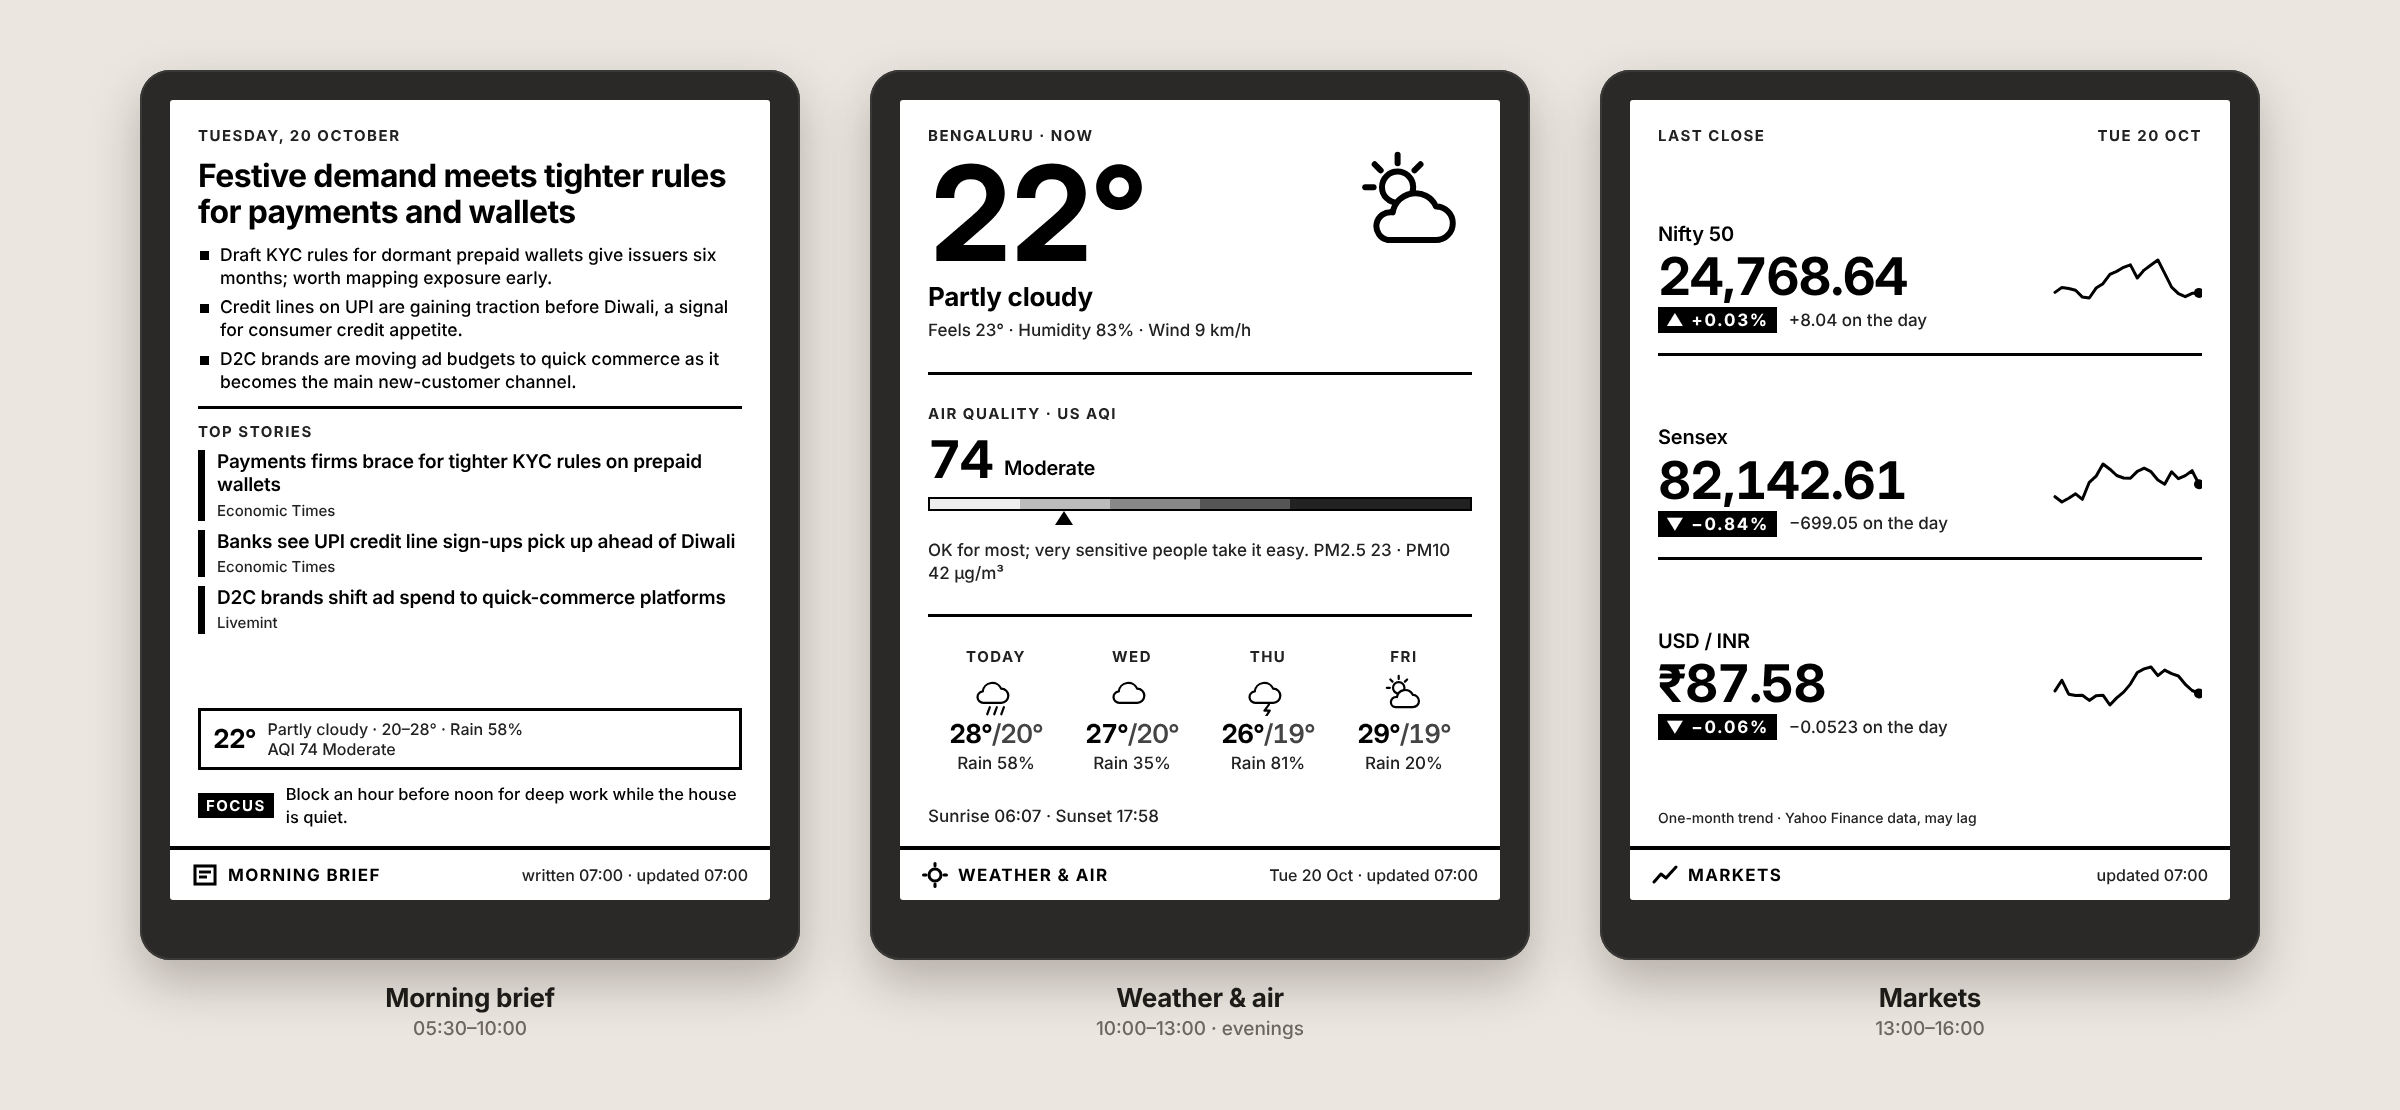
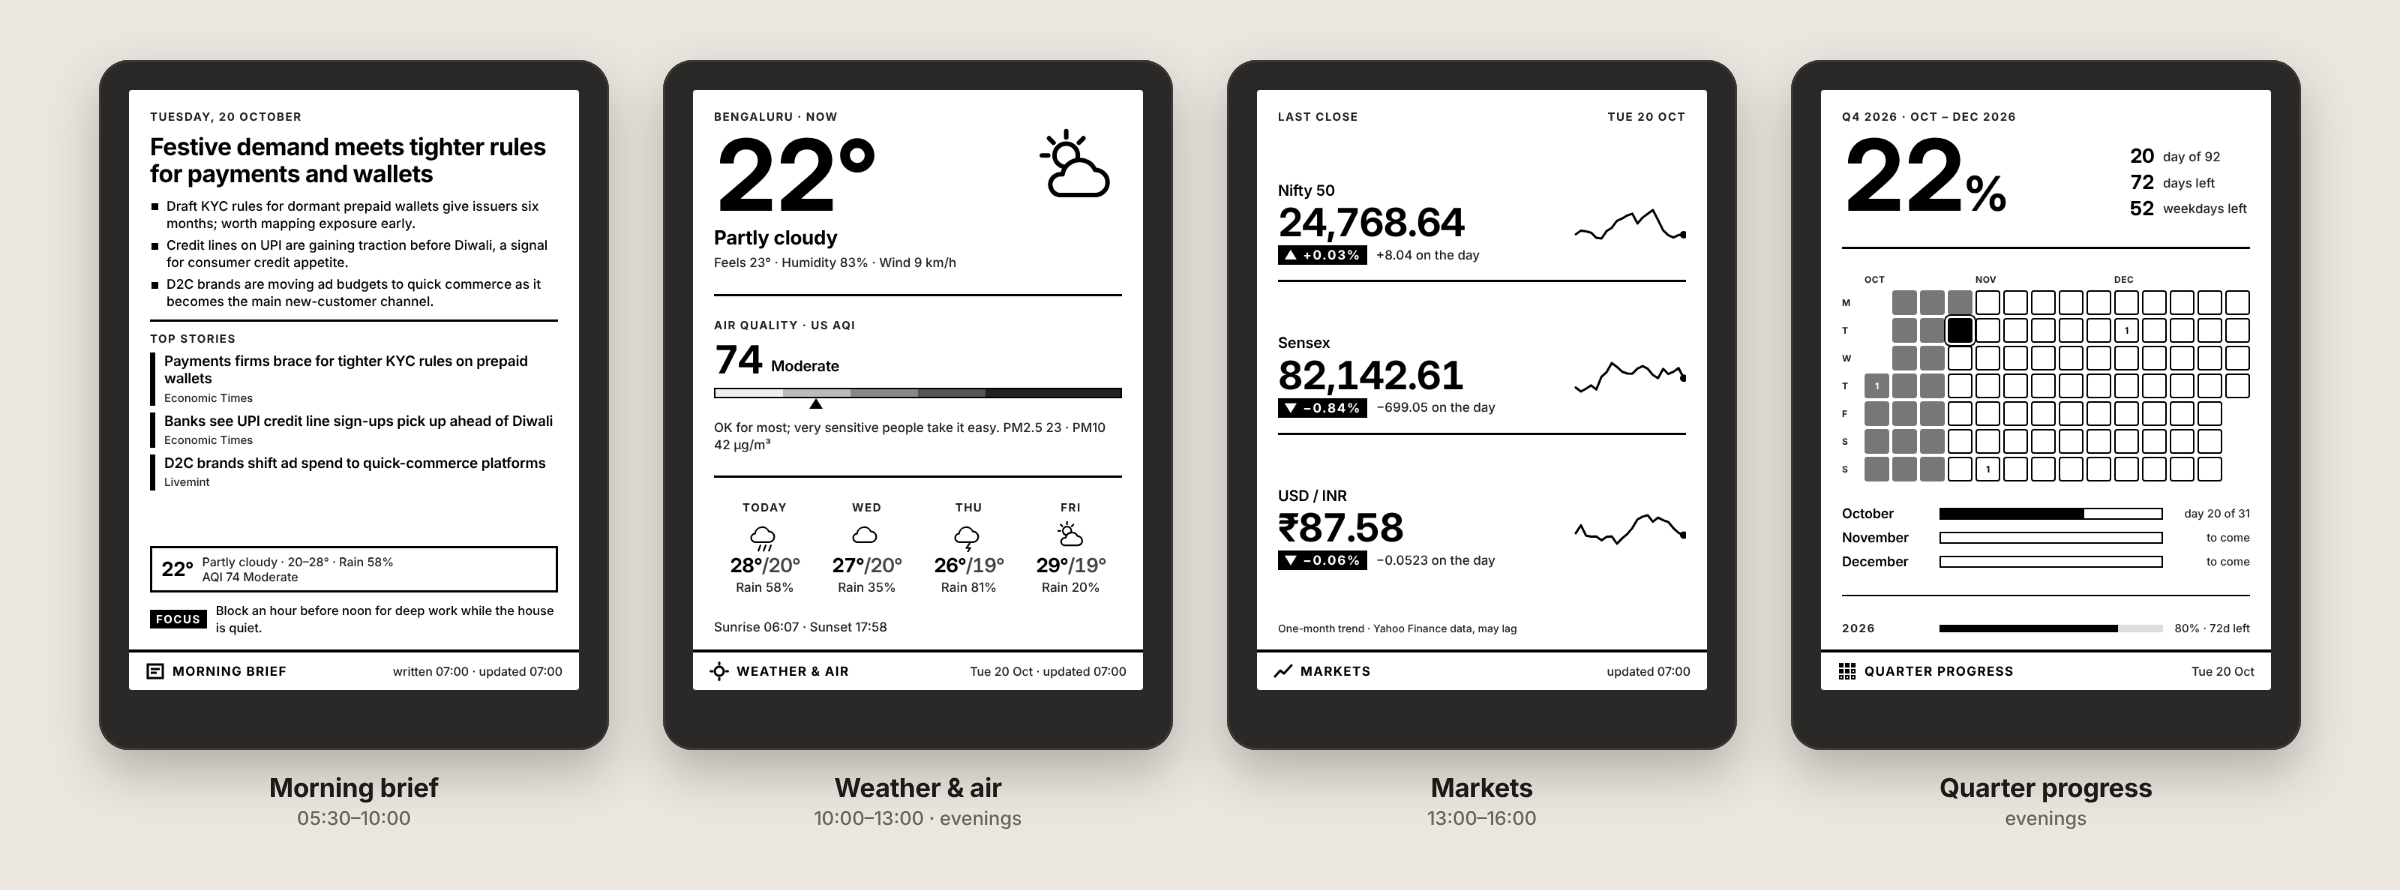
Add Quarter Progress screen (TRMNL recipe equivalent)
One square per day of the quarter, % done, days and weekdays left, month and
year bars. Optional April-March financial-year quarters via plugin settings.
Plugins can now read a settings: block from their plugin.yaml (ctx.settings).

Claude-Session: https://claude.ai/code/session_01GcKyYFsaBsPuGYxqe3XuTx

diff --git a/plugins/quarter_progress/fetch.py b/plugins/quarter_progress/fetch.py
@@ -1,0 +1,107 @@
+"""Quarter progress: one square per day of the current quarter, plus month and year progress.
+
+Equivalent of TRMNL's "Quarter Progress" recipe, laid out for a portrait Kindle. No network needed.
+Set `fiscal_year_start: 4` in plugin.yaml for Indian financial-year quarters (Q1 = Apr–Jun).
+"""
+from calendar import monthrange
+from datetime import date, timedelta
+
+LABEL_W, GAP = 26, 4  # weekday-label column width and grid gap, px
+
+
+def _add_months(year: int, month: int, n: int) -> tuple[int, int]:
+    m = month - 1 + n
+    return year + m // 12, m % 12 + 1
+
+
+def _quarter(today: date, fy_start: int):
+    offset = (today.month - fy_start) % 12          # months since the (fiscal) year began
+    q = offset // 3 + 1
+    y0, m0 = _add_months(today.year, today.month, -(offset % 3))
+    start = date(y0, m0, 1)
+    y1, m1 = _add_months(y0, m0, 2)
+    end = date(y1, m1, monthrange(y1, m1)[1])
+    return q, start, end
+
+
+def _year(today: date, fy_start: int):
+    y = today.year if today.month >= fy_start else today.year - 1
+    start = date(y, fy_start, 1)
+    ny, nm = _add_months(y, fy_start, 12)
+    end = date(ny, nm, 1) - timedelta(days=1)
+    label = str(y) if fy_start == 1 else f"FY{str(end.year)[-2:]}"
+    return label, start, end
+
+
+def _weekdays_between(a: date, b: date) -> int:
+    """Mon–Fri days from a to b inclusive."""
+    if b < a:
+        return 0
+    days = (b - a).days + 1
+    full, rest = divmod(days, 7)
+    count = full * 5
+    for i in range(rest):
+        if (a + timedelta(days=full * 7 + i)).weekday() < 5:
+            count += 1
+    return count
+
+
+def fetch(ctx):
+    fy_start = int(ctx.settings.get("fiscal_year_start", 1))
+    today = ctx.now.date()
+    q, q_start, q_end = _quarter(today, fy_start)
+    total = (q_end - q_start).days + 1
+    day = (today - q_start).days + 1
+    year_label, y_start, y_end = _year(today, fy_start)
+
+    # Week columns, Monday first (like a calendar turned on its side).
+    first_monday = q_start - timedelta(days=q_start.weekday())
+    weeks, d = [], first_monday
+    while d <= q_end:
+        cells, label = [], ""
+        for i in range(7):
+            cur = d + timedelta(days=i)
+            if cur < q_start or cur > q_end:
+                state = "out"
+            elif cur < today:
+                state = "past"
+            elif cur == today:
+                state = "today"
+            else:
+                state = "future"
+            cells.append({"state": state, "first": state != "out" and cur.day == 1})
+            if q_start <= cur <= q_end and (cur.day == 1 or not weeks and not label):
+                label = cur.strftime("%b")
+        weeks.append({"label": label, "cells": cells})
+        d += timedelta(days=7)
+
+    usable = ctx.cfg["screen"]["width"] - 2 * 28 - LABEL_W
+    cell = min(40, (usable - GAP * len(weeks)) // len(weeks))
+
+    months = []
+    for i in range(3):
+        y, m = _add_months(q_start.year, q_start.month, i)
+        m_start, m_days = date(y, m, 1), monthrange(y, m)[1]
+        done = 0 if today < m_start else min(m_days, (today - m_start).days + 1)
+        months.append({"name": m_start.strftime("%B"), "pct": round(done / m_days * 100),
+                       "note": "done" if done == m_days else ("to come" if done == 0 else f"day {done} of {m_days}")})
+
+    q_name = f"Q{q} {q_start.year}" if fy_start == 1 else f"Q{q} {year_label}"
+    same_year = q_start.year == q_end.year
+    y_total, y_day = (y_end - y_start).days + 1, (today - y_start).days + 1
+    return {
+        "available": True,
+        "quarter": q_name,
+        "range": f"{q_start:%b} – {q_end:%b %Y}" if same_year else f"{q_start:%b %Y} – {q_end:%b %Y}",
+        "pct": round(day / total * 100),
+        "day": day,
+        "total": total,
+        "days_left": total - day,
+        "weekdays_left": _weekdays_between(today + timedelta(days=1), q_end),
+        "weeks": weeks,
+        "cell": cell,
+        "label_w": LABEL_W,
+        "gap": GAP,
+        "months": months,
+        "year": {"label": year_label, "pct": round(y_day / y_total * 100), "days_left": y_total - y_day},
+    }

diff --git a/core/render.py b/core/render.py
@@ -19,6 +19,7 @@ FONTS = [  # family, file, weight
 GLYPHS = {  # small title-bar icons
     "morning_brief": '<svg class="glyph" viewBox="0 0 26 26"><rect x="3" y="4" width="20" height="18" fill="none" stroke="#000" stroke-width="3"/><line x1="7" y1="10" x2="19" y2="10" stroke="#000" stroke-width="3"/><line x1="7" y1="15" x2="15" y2="15" stroke="#000" stroke-width="3"/></svg>',
     "weather_aqi": '<svg class="glyph" viewBox="0 0 26 26"><circle cx="13" cy="13" r="6" fill="none" stroke="#000" stroke-width="3"/><g stroke="#000" stroke-width="3" stroke-linecap="round"><line x1="13" y1="1.5" x2="13" y2="4"/><line x1="13" y1="22" x2="13" y2="24.5"/><line x1="1.5" y1="13" x2="4" y2="13"/><line x1="22" y1="13" x2="24.5" y2="13"/></g></svg>',
+    "quarter_progress": '<svg class="glyph" viewBox="0 0 26 26"><g fill="#000"><rect x="2" y="2" width="6" height="6"/><rect x="10" y="2" width="6" height="6"/><rect x="18" y="2" width="6" height="6"/><rect x="2" y="10" width="6" height="6"/><rect x="10" y="10" width="6" height="6"/></g><g fill="none" stroke="#000" stroke-width="2"><rect x="19" y="11" width="4" height="4"/><rect x="3" y="19" width="4" height="4"/><rect x="11" y="19" width="4" height="4"/><rect x="19" y="19" width="4" height="4"/></g></svg>',
     "markets": '<svg class="glyph" viewBox="0 0 26 26"><polyline points="2,20 9,12 14,16 24,5" fill="none" stroke="#000" stroke-width="3" stroke-linejoin="round" stroke-linecap="round"/></svg>',
 }
 

diff --git a/core/plugins.py b/core/plugins.py
@@ -1,7 +1,7 @@
 """Plugin discovery and the time-of-day playlist.
 
 A plugin is a folder under plugins/ with:
-  plugin.yaml      name, title, order, show windows
+  plugin.yaml      name, title, order, show windows, optional settings
   fetch.py         def fetch(ctx) -> dict   (optional: def publish(ctx, data, site_dir))
   template.liquid  markup rendered into a Kindle-sized screen
 """
@@ -26,6 +26,7 @@ class Plugin:
     show: list[str]
     enabled: bool
     folder: Path
+    settings: dict
     module: ModuleType
 
     @property
@@ -59,7 +60,8 @@ def load_plugins(only: list[str] | None = None) -> list[Plugin]:
         assert spec.loader
         spec.loader.exec_module(module)
         plugins.append(Plugin(name=name, title=meta.get("title", name), order=int(meta.get("order", 50)),
-                              show=list(meta.get("show", [])), enabled=True, folder=folder, module=module))
+                              show=list(meta.get("show", [])), enabled=True, folder=folder, module=module,
+                              settings=dict(meta.get("settings") or {})))
     return sorted(plugins, key=lambda p: p.order)
 
 

diff --git a/tools/docs_images.py b/tools/docs_images.py
@@ -22,7 +22,8 @@ OUT = ROOT / "docs" / "images"
 TMP = ROOT / "build" / "docs"
 SCREENS = [("morning_brief", "Morning brief", "05:30–10:00"),
            ("weather_aqi", "Weather & air", "10:00–13:00 · evenings"),
-           ("markets", "Markets", "13:00–16:00")]
+           ("markets", "Markets", "13:00–16:00"),
+           ("quarter_progress", "Quarter progress", "evenings")]
 
 
 def run_build(out: str, at: str, extra_env: dict | None = None) -> Path:
@@ -83,7 +84,8 @@ def main() -> None:
     screens = {name: site / "screens" / f"{name}.png" for name, _, _ in SCREENS}
 
     # 1. Hero: three devices side by side
-    shoot(page("".join(device(screens[n], t, s) for n, t, s in SCREENS)), OUT / "hero.png", 2400)
+    shoot(page("".join(device(screens[n], t, s, scale=0.75) for n, t, s in SCREENS), gap=54, pad=60),
+          OUT / "hero.png", 2400)
 
     # 2. Raw screens exactly as the Kindle gets them (600x800, 16 greys)
     for name, _, _ in SCREENS:

diff --git a/core/context.py b/core/context.py
@@ -40,6 +40,7 @@ class Context:
     demo: bool = False            # use fixtures/ instead of the network
     now: datetime = None          # type: ignore[assignment]
     data: dict[str, Any] = field(default_factory=dict)   # plugin name -> fetched data
+    settings: dict[str, Any] = field(default_factory=dict)  # current plugin's plugin.yaml settings
     _previous: dict[str, Any] = field(default_factory=dict)
     session: requests.Session = field(default_factory=requests.Session)
 

diff --git a/build.py b/build.py
@@ -48,6 +48,7 @@ def main() -> int:
     plugins = load_plugins(args.only)
     for p in plugins:  # in `order`, so later plugins can read earlier ones from ctx.data
         try:
+            ctx.settings = p.settings  # this plugin's `settings:` from its plugin.yaml
             ctx.data[p.name] = p.module.fetch(ctx) or {}
         except Exception as e:
             ctx.log(f"{p.name}: fetch failed: {e}")

diff --git a/README.md b/README.md
@@ -5,7 +5,7 @@ An AI-written brief arrives as an ebook every morning, and the screen rotates th
 weather, air quality and markets during the day. It runs entirely on GitHub's free tier:
 nothing to host, nothing to keep switched on at home.
 
-![Three Kindle screens: the morning brief, weather and air quality, and markets](docs/images/hero.png)
+![Four Kindle screens: the morning brief, weather and air quality, markets, and quarter progress](docs/images/hero.png)
 
 <sub>Screens shown with sample data. They are rendered at the Kindle's exact resolution (600×800) in 16 shades of grey.</sub>
 
@@ -17,8 +17,8 @@ nothing to host, nothing to keep switched on at home.
   picks the stories that matter to you and writes a one-page summary with today's weather and
   markets. KOReader downloads it as an ebook with one tap.
 - **A dashboard that changes through the day.** Leave the Kindle on a stand and it shows the
-  brief in the morning, weather and air quality at midday, markets in the afternoon and the
-  forecast in the evening. It updates every hour.
+  brief in the morning, weather and air quality at midday, markets in the afternoon, and the
+  forecast and quarter progress in the evening. It updates every hour.
 - **₹0 to run.** GitHub Actions builds everything on a schedule and GitHub Pages hosts it. The
   AI uses OpenRouter's free models (one call a day). Weather and air quality come from
   Open-Meteo, which needs no key.
@@ -29,14 +29,20 @@ nothing to host, nothing to keep switched on at home.
 
 <table>
 <tr>
-<td align="center" width="33%"><img src="docs/images/screen-morning_brief.png" width="260" alt="Morning brief screen"><br><b>Morning brief</b><br><sub>05:30–10:00 and 13:00–14:00</sub></td>
-<td align="center" width="33%"><img src="docs/images/screen-weather_aqi.png" width="260" alt="Weather and air quality screen"><br><b>Weather &amp; air</b><br><sub>10:00–13:00 and 16:00–05:59</sub></td>
-<td align="center" width="33%"><img src="docs/images/screen-markets.png" width="260" alt="Markets screen"><br><b>Markets</b><br><sub>13:00–16:00</sub></td>
+<td align="center" width="50%"><img src="docs/images/screen-morning_brief.png" width="300" alt="Morning brief screen"><br><b>Morning brief</b><br><sub>05:30–10:00 and 13:00–14:00</sub></td>
+<td align="center" width="50%"><img src="docs/images/screen-weather_aqi.png" width="300" alt="Weather and air quality screen"><br><b>Weather &amp; air</b><br><sub>10:00–13:00 and 16:00–05:59</sub></td>
 </tr>
 <tr>
 <td valign="top">AI headline, three takeaways, the top stories that fit on screen, a weather strip and one focus for the day.</td>
 <td valign="top">Temperature now, US AQI on a scale with PM2.5 and PM10, a 4-day forecast and sunrise/sunset for Bengaluru.</td>
+</tr>
+<tr>
+<td align="center"><img src="docs/images/screen-markets.png" width="300" alt="Markets screen"><br><b>Markets</b><br><sub>13:00–16:00</sub></td>
+<td align="center"><img src="docs/images/screen-quarter_progress.png" width="300" alt="Quarter progress screen"><br><b>Quarter progress</b><br><sub>18:00–22:00, alternating with weather</sub></td>
+</tr>
+<tr>
 <td valign="top">Nifty 50, Sensex and USD/INR with the day's move and a one-month trend line.</td>
+<td valign="top">One square per day of the quarter (done, today, to come), how far through it you are, days and weekdays left, plus month and year bars. Like TRMNL's <a href="https://trmnl.com/recipes/quarter-progress-212805">Quarter Progress</a> recipe, set out for a portrait screen. Switch to April–March financial-year quarters in its <code>plugin.yaml</code>.</td>
 </tr>
 </table>
 
@@ -154,6 +160,8 @@ Everything you're likely to change is in [`config.yaml`](config.yaml):
 | `screen.refresh_seconds` | How often the Kindle asks for a new screen |
 
 - **When each screen shows:** the `show:` times in each screen's `plugins/<name>/plugin.yaml`.
+- **Financial-year quarters:** in `plugins/quarter_progress/plugin.yaml`, set
+  `fiscal_year_start: 4`. October–December then shows as **Q3 FY27** and the year bar tracks FY27.
 - **When the builds run:** `.github/workflows/build.yml`. Cron times are UTC (IST = UTC + 5:30).
 
 ## Build your own screen
@@ -167,7 +175,7 @@ A screen is one folder under `plugins/` with three files. This countdown is a co
 ```yaml
 name: countdown
 title: Countdown
-order: 40
+order: 50
 show:
   - "21:00-22:00"
 ```
@@ -205,6 +213,7 @@ How the pieces fit:
 
 - **`fetch(ctx)`** returns a dictionary. Its keys become template variables. Return
   `{"available": False}` to skip the screen for this run.
+- **Settings:** anything under `settings:` in a screen's `plugin.yaml` is available as `ctx.settings`.
 - **Fetching data:** `ctx.get_json(url, params=...)` (with retries), `ctx.cfg` for `config.yaml`,
   `ctx.now` for the time in IST, and `ctx.usable("weather_aqi")` for another screen's data.
   Screens run in `order`, lowest first.
